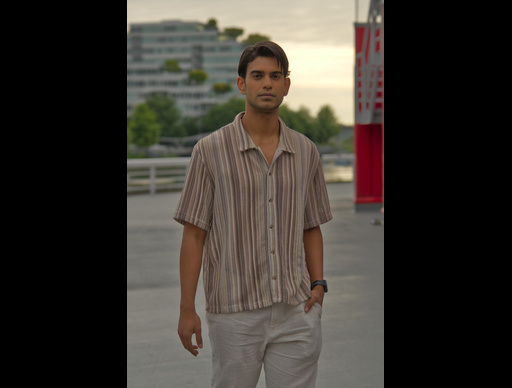
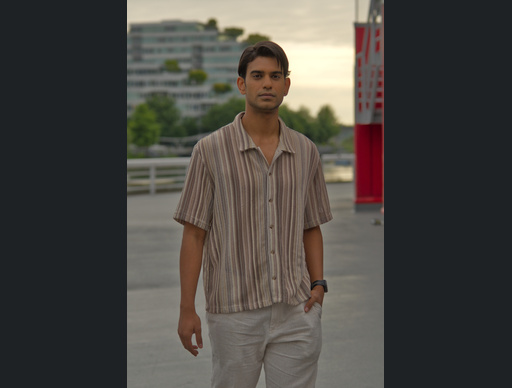
fixes padding

diff --git a/README.md b/README.md
@@ -50,6 +50,9 @@ and thumbnail generation__. So if you're lazy like me then you can just do the f
 5. Run `$ gulp resize` to resize the images and to generate thumbnails automatically
 6. Push your changes to github.com by `$ git add --all` and `$ git commit -m "a nice commit message"` and then finally `$ git push origin master`
 
+For images in portrait format, you can resize them as follows:
+`$ convert images/fulls/2025-06-14_0075.jpg -resize 512x388 -background "rgb(31, 34, 36)" -gravity center -extent 512x388 images/thumbs/2025-06-14_0075.jpg`
+
 ### Contact Form
 You can make the contact form work without the need of any server-side code. Just follow this [article on github](https://github.com/dwyl/html-form-send-email-via-google-script-without-server) which uses a simple google script to send emails or to upload to a google spreadsheet when someone submits the form.
 
